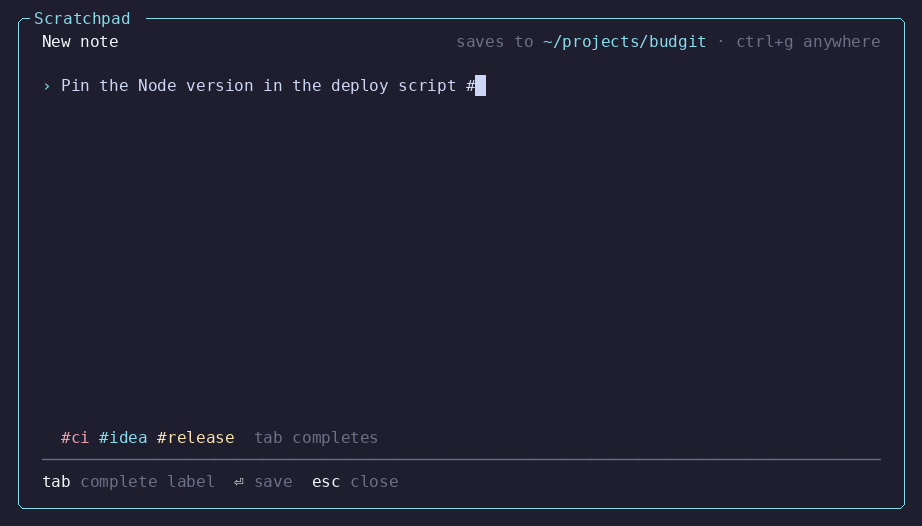
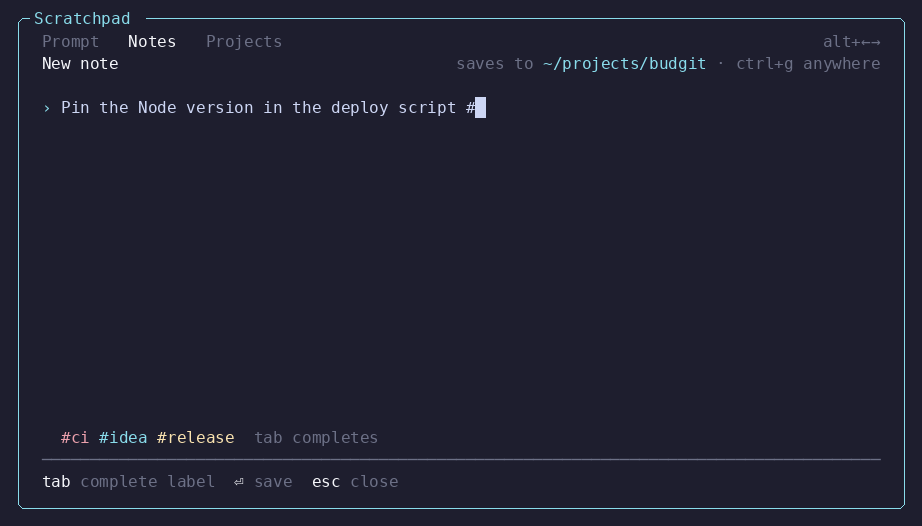
Show the tab strip and switch with alt+left and alt+right
The strip sits on the top row above both screens. Switching keeps an
unsaved note, as esc does, and passes on this folder. The README
images are redrawn with it.

diff --git a/lib/shared/tabs.js b/lib/shared/tabs.js
@@ -1,0 +1,49 @@
+"use strict";
+
+// The strip across the top of every popup, so the three read as one: Prompt,
+// Notes, Projects. Each tab is its own plugin's popup. Switching
+// closes this one and opens the next where it stood, passing on the folder
+// you were looking at.
+
+const path = require("node:path");
+const { style, truncate, displayWidth } = require("./ui");
+const { spawnDetached } = require("./herdr");
+
+const TABS = [
+  { id: "prompt", title: "Prompt", plugin: "taanviir.quick-prompt", entrypoint: "picker", prefix: "QUICK_PROMPT" },
+  { id: "notes", title: "Notes", plugin: "taanviir.scratchpad", entrypoint: "popup", prefix: "SCRATCHPAD" },
+  { id: "projects", title: "Projects", plugin: "taanviir.projects", entrypoint: "picker", prefix: "PROJECTS" },
+];
+
+const SWITCHER = path.join(__dirname, "switch.js");
+
+// `right` is the popup's own summary, kept at the far end.
+function strip(current, width, right = "") {
+  const tabs = TABS.map((tab) => (tab.id === current ? style.accent(style.bold(tab.title)) : style.dim(tab.title))).join("   ");
+  const hint = style.dim("alt+←→");
+  const end = right ? `${right}  ${hint}` : hint;
+  const gap = width - displayWidth(tabs) - displayWidth(end);
+  return gap >= 2 ? `${tabs}${" ".repeat(gap)}${end}` : truncate(tabs, width);
+}
+
+// alt+← and alt+→ step through the tabs, wrapping round. Returns the tab to
+// go to, or null when the key is not a switch.
+function switchFor(key, current) {
+  if (!key?.meta || (key.name !== "left" && key.name !== "right")) return null;
+  const at = TABS.findIndex((tab) => tab.id === current);
+  return TABS[(at + (key.name === "left" ? -1 : 1) + TABS.length) % TABS.length];
+}
+
+// The caller quits right after: Herdr opens the next popup once this one is
+// gone. `where` is { cwd, workspace, pane }, as far as the popup knows them.
+function switchTo(tab, where) {
+  spawnDetached(process.execPath, [SWITCHER, JSON.stringify({ id: tab.id, ...where })]);
+}
+
+// Each plugin reads where it was opened from in its own variables.
+function envFor(tab, { cwd, workspace, pane } = {}) {
+  const env = { [`${tab.prefix}_CWD`]: cwd, [`${tab.prefix}_WORKSPACE`]: workspace, [`${tab.prefix}_PANE`]: pane };
+  return Object.fromEntries(Object.entries(env).filter(([, value]) => value));
+}
+
+module.exports = { TABS, strip, switchFor, switchTo, envFor };

diff --git a/bin/popup.js b/bin/popup.js
@@ -10,6 +10,7 @@ const store = require("../lib/store");
 const { describe, relatedTo } = require("../lib/source");
 const { Editor } = require("../lib/shared/editor");
 const { style, tint, pad, truncate, shortenPath, displayWidth } = require("../lib/shared/ui");
+const { strip, switchFor, switchTo } = require("../lib/shared/tabs");
 const { compose } = require("../lib/brief");
 const { labels, title, known, group, partialTag } = require("../lib/labels");
 const when = require("../lib/when");
@@ -566,6 +567,12 @@ const SHEETS = {
 
 function onKey(chunk, key) {
   state.notice = null;
+  // Another tab of the strip: an unsaved note is kept, as on esc.
+  const tab = switchFor(key, "notes");
+  if (tab && tab.id !== "notes") {
+    switchTo(tab, { cwd: here.folder ?? process.env.SCRATCHPAD_CWD, workspace, pane: originPane });
+    return close();
+  }
   if (state.sheet) return SHEETS[state.sheet.type].key(chunk, key);
   if (state.screen === "notes") return onNotesKey(chunk, key);
   return onWriteKey(chunk, key);
@@ -608,9 +615,11 @@ relink();
 const ui = start({
   title: "Scratchpad",
   name: "popup",
+  // The strip takes the top row; the screen below gets the rest.
   body: (width, rows) => {
-    if (state.sheet) return SHEETS[state.sheet.type].body(width, rows);
-    return state.screen === "notes" ? notesBody(width, rows) : writeBody(width, rows);
+    const screen = state.sheet ? SHEETS[state.sheet.type].body : state.screen === "notes" ? notesBody : writeBody;
+    const { lines, caret } = screen(width, rows - 1);
+    return { lines: [strip("notes", width), ...lines], caret: caret && { ...caret, row: caret.row + 1 } };
   },
   onKey,
   onPaste,

diff --git a/lib/shared/switch.js b/lib/shared/switch.js
@@ -1,0 +1,32 @@
+"use strict";
+
+// Detached: opens the popup a tab switch asked for. Herdr opens one popup at a
+// time and says ui_busy until the one switched away from has gone.
+
+const { run, notify } = require("./herdr");
+const { TABS, envFor } = require("./tabs");
+
+const ATTEMPTS = 40;
+const RETRY_MS = 25;
+
+const sleep = (ms) => Atomics.wait(new Int32Array(new SharedArrayBuffer(4)), 0, 0, ms);
+
+function open(request) {
+  const tab = TABS.find((candidate) => candidate.id === request.id);
+  if (!tab) return;
+  const args = ["plugin", "pane", "open", "--plugin", tab.plugin, "--entrypoint", tab.entrypoint];
+  for (const [key, value] of Object.entries(envFor(tab, request))) args.push("--env", `${key}=${value}`);
+  for (let attempt = 1; ; attempt += 1) {
+    const res = run(args, { check: false });
+    if (res.ok) return;
+    if (res.code !== "ui_busy" || attempt === ATTEMPTS) {
+      notify(`${tab.title} did not open`, res.message);
+      return;
+    }
+    sleep(RETRY_MS);
+  }
+}
+
+if (require.main === module) open(JSON.parse(process.argv[2]));
+
+module.exports = { open };

diff --git a/lib/shared/term.js b/lib/shared/term.js
@@ -171,10 +171,10 @@ function isNewline(chunk, key) {
 // The editing keys of a text field. Returns whether the key was one of them.
 function editKey(editor, chunk, key) {
   switch (true) {
-    case (key.name === "left" && (key.ctrl || key.meta)) || (key.meta && key.name === "b"):
+    case (key.name === "left" && key.ctrl) || (key.meta && key.name === "b"):
       editor.wordLeft();
       break;
-    case (key.name === "right" && (key.ctrl || key.meta)) || (key.meta && key.name === "f"):
+    case (key.name === "right" && key.ctrl) || (key.meta && key.name === "f"):
       editor.wordRight();
       break;
     case key.name === "left":

diff --git a/README.md b/README.md
@@ -74,6 +74,7 @@ the field shows how it was read before you press ⏎:
 | `ctrl+v` | paste from the system clipboard |
 | `tab` | complete a label, or turn to the notes |
 | `esc` | close, keeping what you typed |
+| `alt+←` `alt+→` | switch to Prompt, Notes or Projects, keeping the folder |
 
 **In the notes**
 
